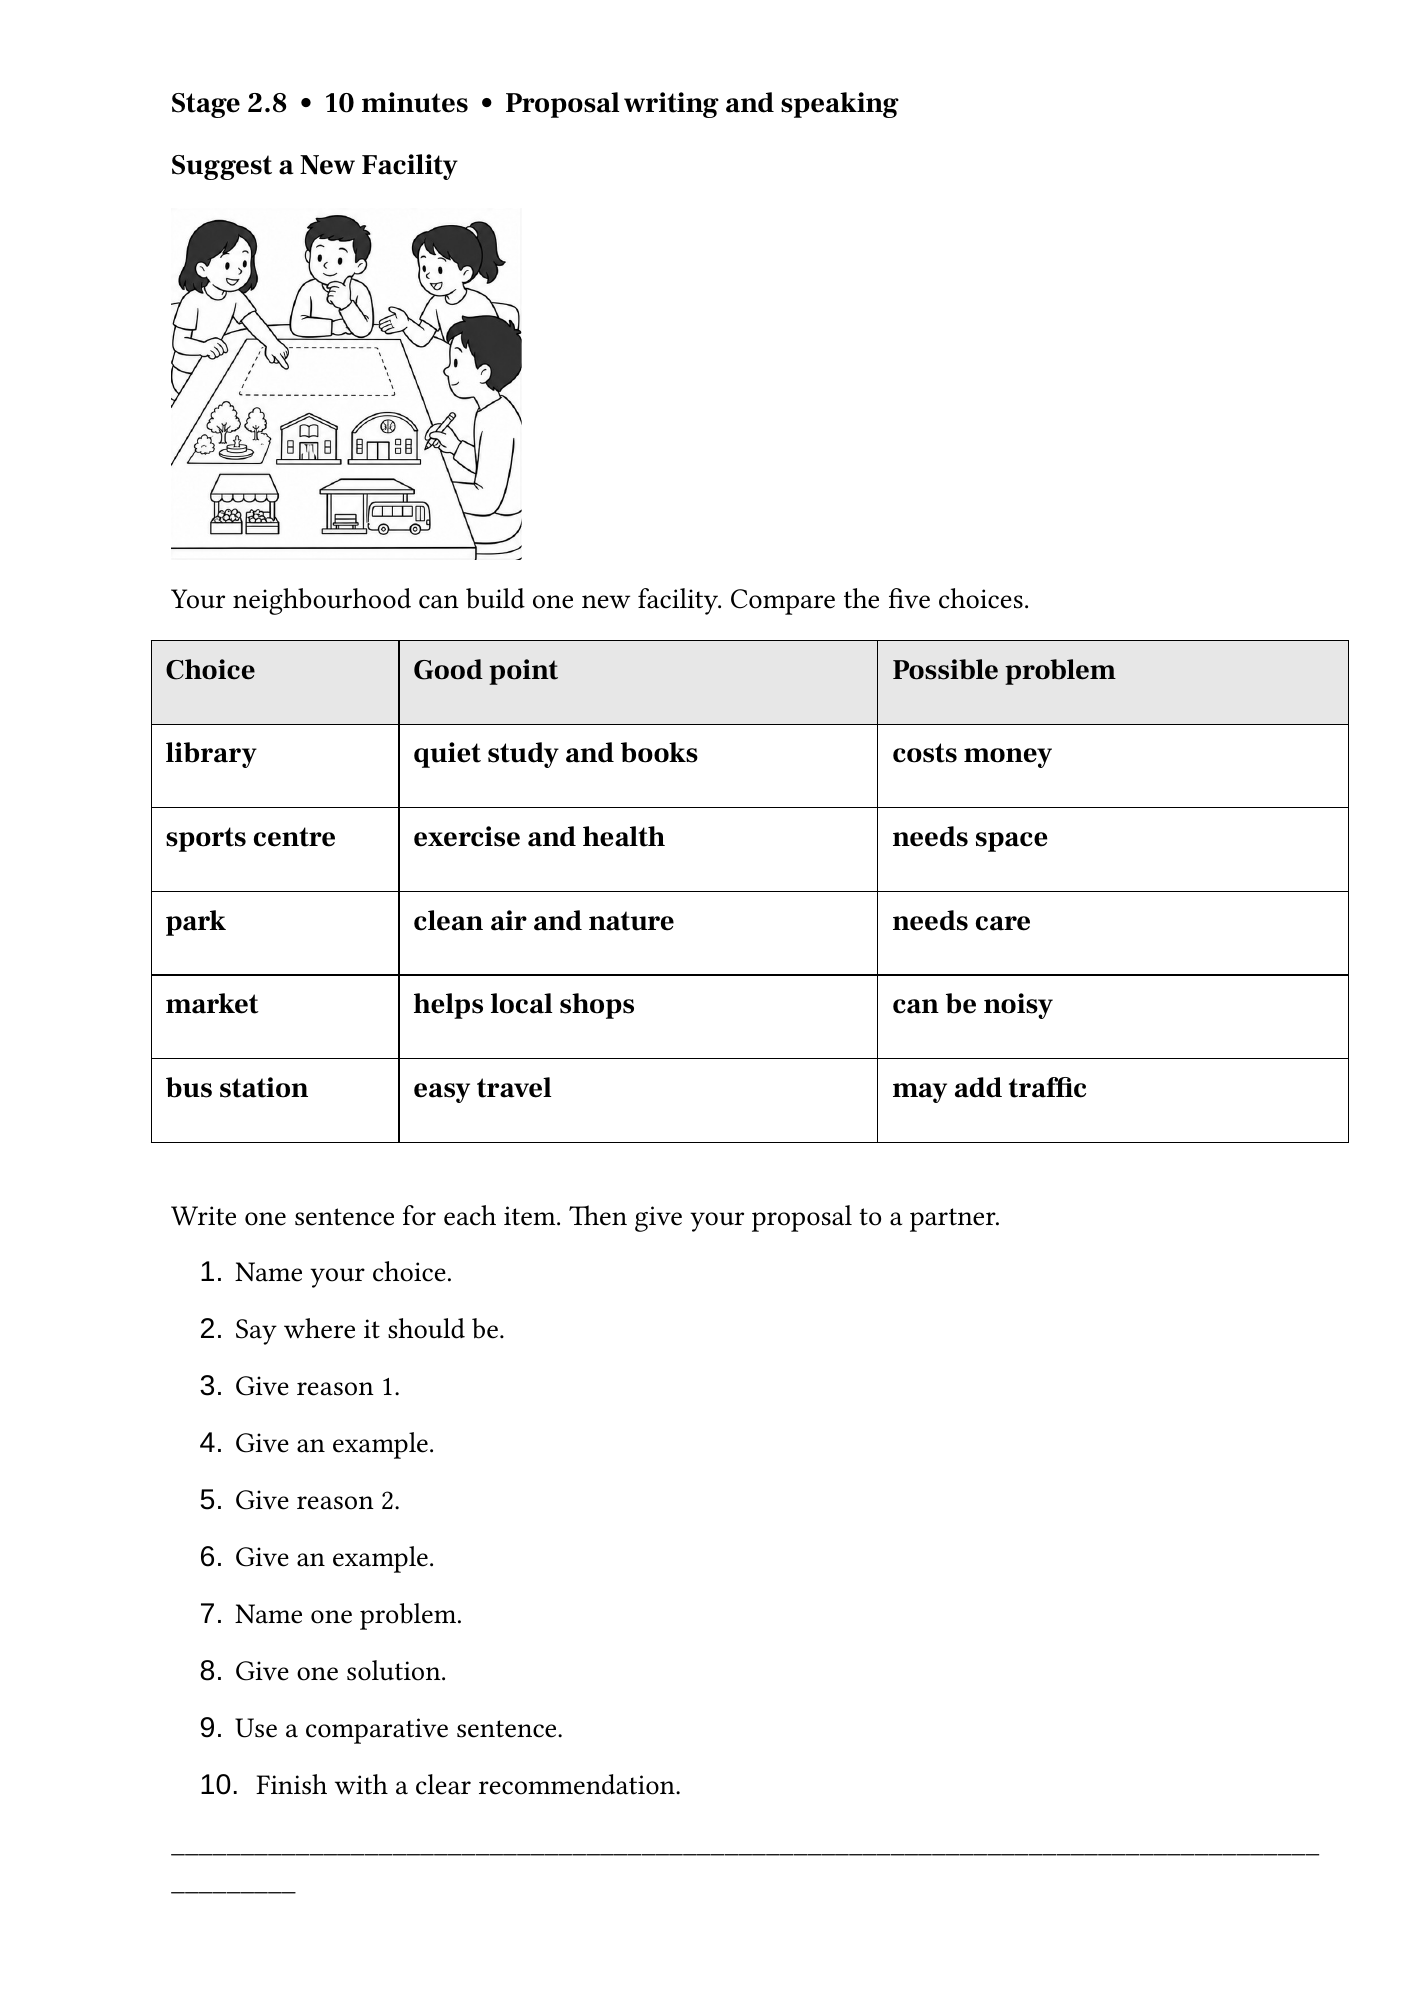
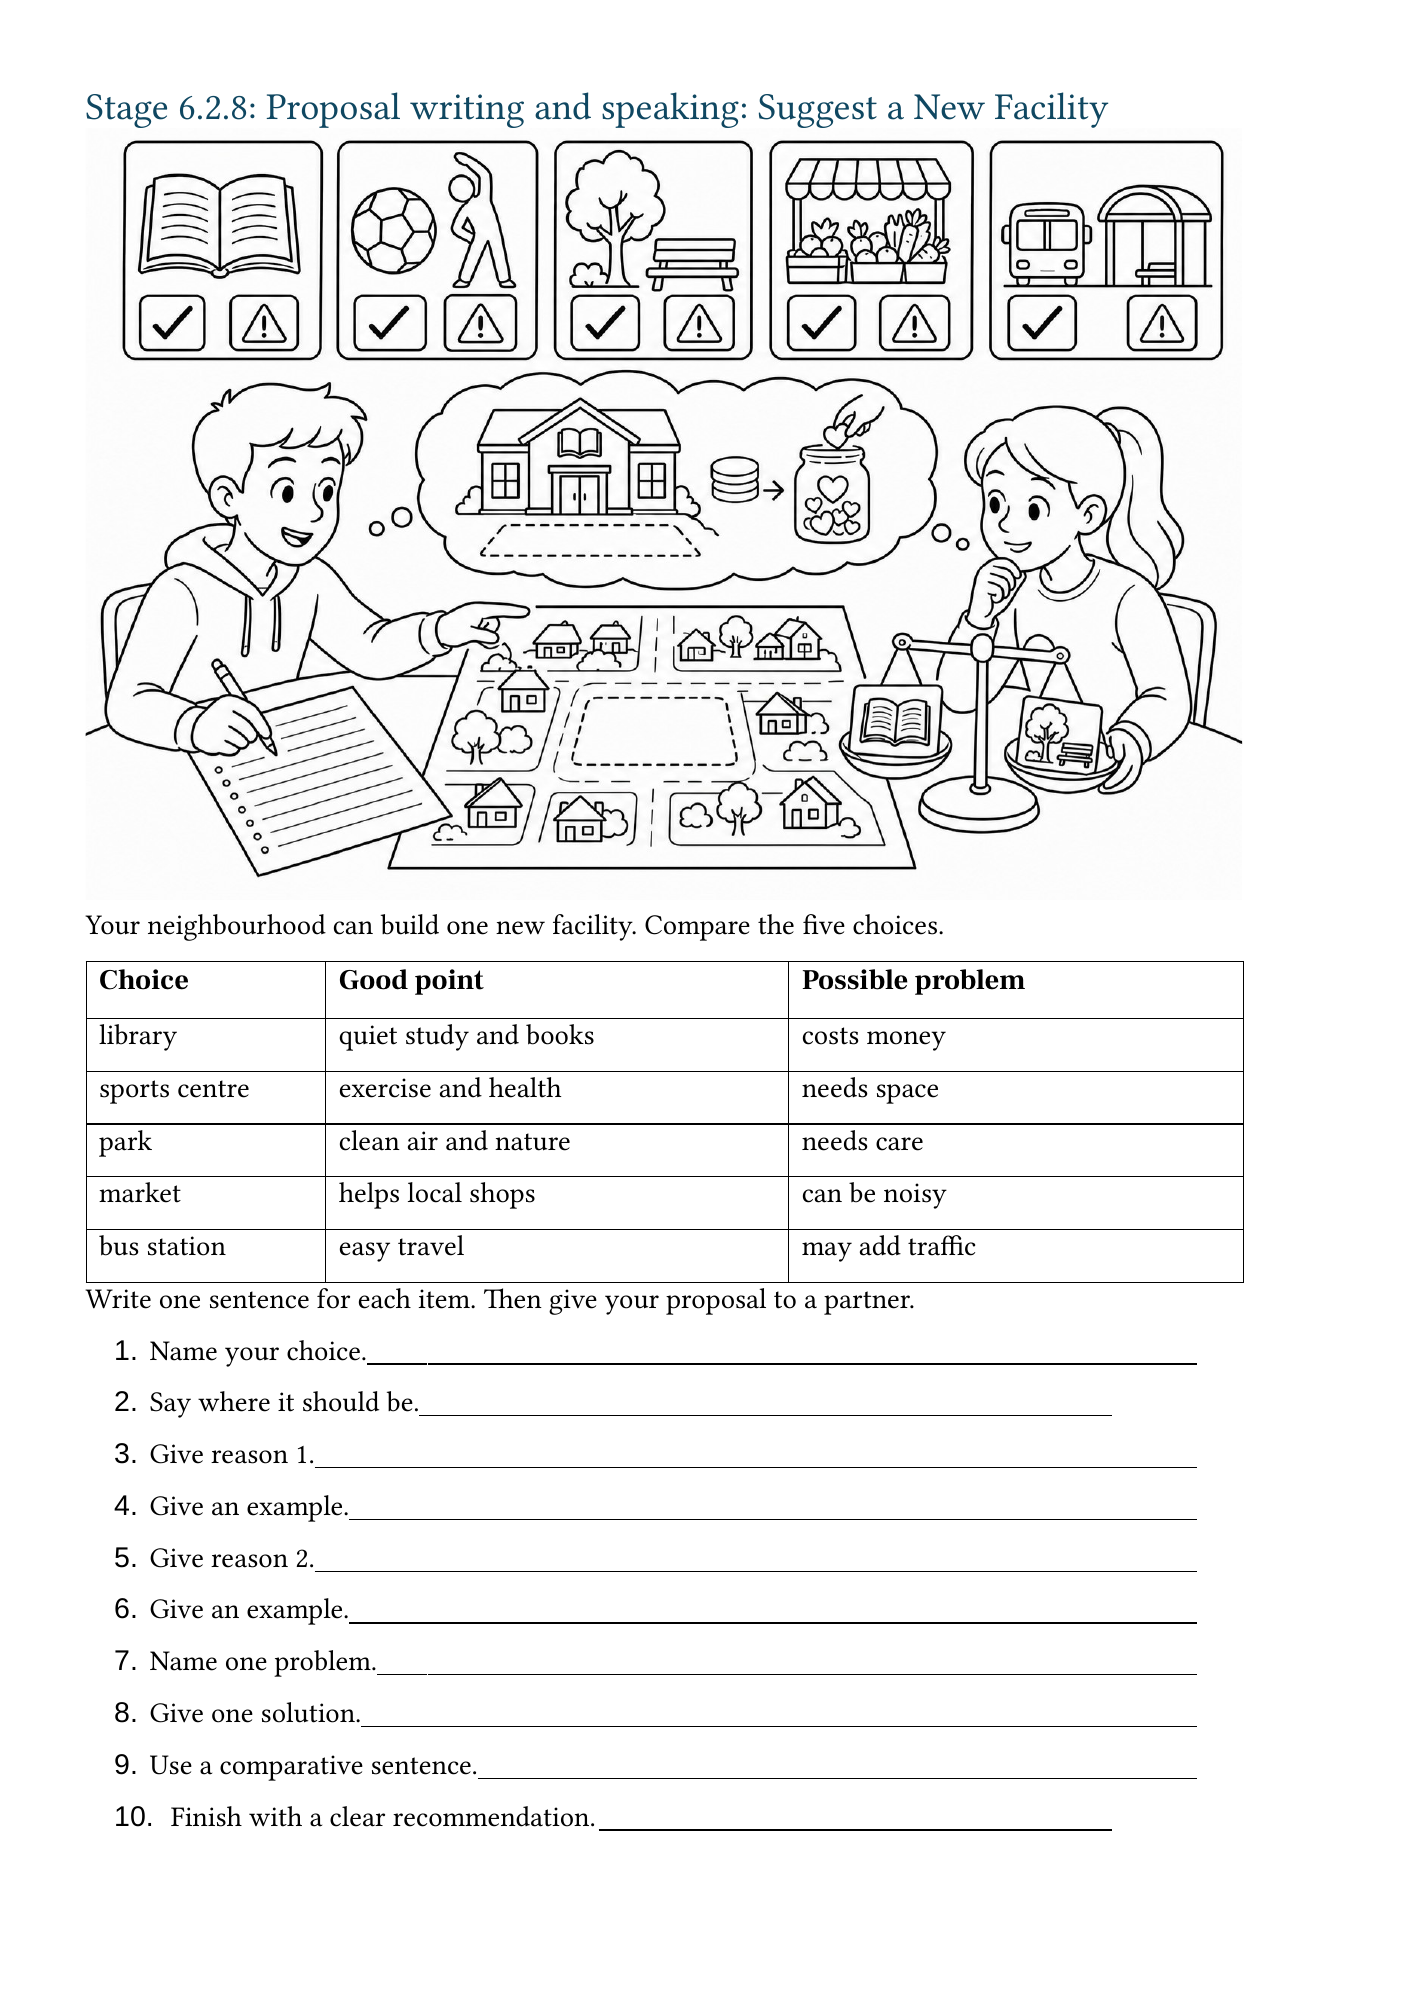
Use print-ready Unit 6 evidence (#4)

Changed region(s): [[0.0622, 0.031, 0.8713, 0.93]]

diff --git a/projects/eight-stage-framework/index.html b/projects/eight-stage-framework/index.html
@@ -1,4 +1,4 @@
 <!doctype html><html lang="en"><head><meta charset="utf-8"><meta name="viewport" content="width=device-width,initial-scale=1"><title>Eight-Stage Lesson Framework | Wayland Chin</title><link rel="stylesheet" href="/assets/css/styles.css"><script defer src="/assets/js/site.js"></script></head><body>
 <a class="skip-link" href="#main">Skip to main content</a><header class="site-header"><div class="container header-inner"><a class="wordmark" href="/">Wayland Chin<span>Education • Technology • Operations</span></a><button class="menu-button" type="button" aria-expanded="false" aria-controls="site-nav">Menu</button><nav id="site-nav" class="site-nav"><a href="/education/">Education</a><a href="/projects/">Projects</a><a href="/business/">Business</a><a href="/about/">About</a><a href="/documents/">CV & Documents</a><a href="/contact/">Contact</a></nav></div></header>
-<main id="main"><section class="page-hero"><div class="container"><p class="eyebrow">Project 01 • Curriculum</p><h1>Eight-Stage Lesson Framework</h1><p class="lead">A standardized architecture for classroom-ready 80-minute university English lessons.</p></div></section><section class="section"><div class="container content-grid"><article class="content"><h2>Challenge</h2><p>Early lesson materials varied in pacing, completeness, formatting, and teacher support. Some finished early, forcing instructors to improvise. Answer keys, instructions, audio, and visual guidance were inconsistent.</p><h2>Design response</h2><p>I concluded that an 80-minute lesson needed approximately eight stages of about ten minutes each. The framework creates a predictable rhythm among teacher input, student practice, interaction, independent work, and feedback.</p><h2>How it works</h2><ol><li>Define the outcome and CEFR-appropriate language target.</li><li>Sequence approximately eight stages across the available time.</li><li>Prepare activities, teacher guidance, answers, visuals, and audio.</li><li>Teach the lesson and observe pacing, clarity, and difficulty.</li><li>Revise the source lesson for the next class or semester.</li></ol><h2>A complete eight-stage example</h2><p>This example comes from an anonymized lesson on city facilities and change. The activity types vary by lesson, but the timing and progression remain consistent.</p><div class="stage-framework" aria-label="Eight stages in an example 80-minute lesson"><div><span>01</span><strong>Picture vocabulary</strong><small>10 minutes</small></div><div><span>02</span><strong>Directions vocabulary</strong><small>10 minutes</small></div><div><span>03</span><strong>Frequency practice</strong><small>10 minutes</small></div><div><span>04</span><strong>Reading</strong><small>10 minutes</small></div><div><span>05</span><strong>Grammar in context</strong><small>10 minutes</small></div><div><span>06</span><strong>Guided writing</strong><small>10 minutes</small></div><div><span>07</span><strong>Information-gap speaking</strong><small>10 minutes</small></div><div><span>08</span><strong>Proposal and production</strong><small>10 minutes</small></div></div><h2>Evidence from a classroom-ready unit</h2><p>The following pages are selected from <em>Unit 6: Places, Facilities, and Energy</em>. Together they show the progression from supported input to independent production and the parallel teacher support built into the unit.</p><div class="evidence-grid"><figure><a href="/assets/evidence/eight-stage-framework/01-picture-vocabulary.png"><img src="/assets/evidence/eight-stage-framework/01-picture-vocabulary.png" alt="Lesson page for Stage 1 picture vocabulary about city facilities" loading="lazy"></a><figcaption><strong>Stage 1: accessible entry point.</strong> A visual prompt, word bank, and ten short questions establish the topic without requiring extensive teacher setup.</figcaption></figure><figure><a href="/assets/evidence/eight-stage-framework/07-information-gap-speaking.png"><img src="/assets/evidence/eight-stage-framework/07-information-gap-speaking.png" alt="Lesson page for Stage 7 information-gap speaking and directions" loading="lazy"></a><figcaption><strong>Stage 7: structured interaction.</strong> Ten preparation notes help students complete an information-gap speaking task before changing roles.</figcaption></figure><figure><a href="/assets/evidence/eight-stage-framework/08-proposal-production.png"><img src="/assets/evidence/eight-stage-framework/08-proposal-production.png" alt="Lesson page for Stage 8 proposal writing and speaking" loading="lazy"></a><figcaption><strong>Stage 8: independent production.</strong> Students compare options, solve a problem, and deliver a recommendation using the lesson language.</figcaption></figure><figure><a href="/assets/evidence/eight-stage-framework/prepared-answer-key.png"><img src="/assets/evidence/eight-stage-framework/prepared-answer-key.png" alt="Prepared teacher answer key for the eight-stage lesson" loading="lazy"></a><figcaption><strong>Teacher-ready support.</strong> Prepared answers and acceptable response examples reduce pre-class preparation and improve consistency.</figcaption></figure></div><div class="evidence-note"><strong>What this evidence demonstrates</strong><p>One lesson includes a timed sequence, visual anchors, vocabulary, receptive work, controlled practice, guided interaction, independent production, and a prepared answer key. The complete unit contains three lessons and 24 stages.</p></div><h2>Reach and reflection</h2><p>The framework supports approximately 60 lessons per semester and 120 lessons per academic year. Its verified value is operational and pedagogical consistency; formal comparative learning-outcome data has not yet been collected.</p><h2>Lesson learned</h2><p>The best curriculum architecture is specific enough to create consistency but flexible enough to support different aims and activity types.</p></article><aside><div class="sidebar-card"><p class="eyebrow">Project summary</p><h2>Curriculum design</h2><div class="metric-list"><div><strong>80 minutes</strong><span>lesson duration</span></div><div><strong>8 stages</strong><span>approximately ten minutes each</span></div><div><strong>120 lessons</strong><span>maintained annually</span></div><div><strong>24 stages</strong><span>in the illustrated three-lesson unit</span></div></div></div></aside></div></section></main>
+<main id="main"><section class="page-hero"><div class="container"><p class="eyebrow">Project 01 • Curriculum</p><h1>Eight-Stage Lesson Framework</h1><p class="lead">A standardized architecture for classroom-ready 80-minute university English lessons.</p></div></section><section class="section"><div class="container content-grid"><article class="content"><h2>Challenge</h2><p>Early lesson materials varied in pacing, completeness, formatting, and teacher support. Some finished early, forcing instructors to improvise. Answer keys, instructions, audio, and visual guidance were inconsistent.</p><h2>Design response</h2><p>I concluded that an 80-minute lesson needed approximately eight stages of about ten minutes each. The framework creates a predictable rhythm among teacher input, student practice, interaction, independent work, and feedback.</p><h2>How it works</h2><ol><li>Define the outcome and CEFR-appropriate language target.</li><li>Sequence approximately eight stages across the available time.</li><li>Prepare activities, teacher guidance, answers, visuals, and audio.</li><li>Teach the lesson and observe pacing, clarity, and difficulty.</li><li>Revise the source lesson for the next class or semester.</li></ol><h2>A complete eight-stage example</h2><p>This example comes from an anonymized lesson on city facilities and change. The activity types vary by lesson, but the timing and progression remain consistent.</p><div class="stage-framework" aria-label="Eight stages in an example 80-minute lesson"><div><span>01</span><strong>Picture vocabulary</strong><small>10 minutes</small></div><div><span>02</span><strong>Directions vocabulary</strong><small>10 minutes</small></div><div><span>03</span><strong>Frequency practice</strong><small>10 minutes</small></div><div><span>04</span><strong>Reading</strong><small>10 minutes</small></div><div><span>05</span><strong>Grammar in context</strong><small>10 minutes</small></div><div><span>06</span><strong>Guided writing</strong><small>10 minutes</small></div><div><span>07</span><strong>Information-gap speaking</strong><small>10 minutes</small></div><div><span>08</span><strong>Proposal and production</strong><small>10 minutes</small></div></div><h2>Evidence from the print-ready team file</h2><p>These pages come from the completed 49-page <em>Unit 6: Places, Facilities, and Energy</em> file used by the teaching team and prepared for student printing. They show the final formatting, upgraded illustrations, classroom activities, and parallel teacher answers.</p><div class="evidence-grid"><figure><a href="/assets/evidence/eight-stage-framework/01-picture-vocabulary.png"><img src="/assets/evidence/eight-stage-framework/01-picture-vocabulary.png" alt="Print-ready lesson page for Stage 1 picture vocabulary about city facilities" loading="lazy"></a><figcaption><strong>Stage 1: accessible entry point.</strong> A detailed visual prompt, word bank, and ten short questions establish the topic without requiring extensive teacher setup.</figcaption></figure><figure><a href="/assets/evidence/eight-stage-framework/07-information-gap-speaking.png"><img src="/assets/evidence/eight-stage-framework/07-information-gap-speaking.png" alt="Print-ready lesson page for Stage 7 information-gap speaking and directions" loading="lazy"></a><figcaption><strong>Stage 7: structured interaction.</strong> Visual route support and ten preparation notes help students complete an information-gap speaking task before changing roles.</figcaption></figure><figure><a href="/assets/evidence/eight-stage-framework/08-proposal-production.png"><img src="/assets/evidence/eight-stage-framework/08-proposal-production.png" alt="Print-ready lesson page for Stage 8 proposal writing and speaking" loading="lazy"></a><figcaption><strong>Stage 8: independent production.</strong> Students compare illustrated options, solve a neighbourhood problem, and deliver a recommendation using the lesson language.</figcaption></figure><figure><a href="/assets/evidence/eight-stage-framework/prepared-answer-key.png"><img src="/assets/evidence/eight-stage-framework/prepared-answer-key.png" alt="Prepared teacher answer key from the print-ready unit" loading="lazy"></a><figcaption><strong>Teacher-ready support.</strong> Prepared answers and acceptable response examples reduce pre-class preparation and improve consistency.</figcaption></figure></div><div class="evidence-note"><strong>What this evidence demonstrates</strong><p>One lesson includes a timed sequence, visual anchors, vocabulary, receptive work, controlled practice, guided interaction, independent production, and a prepared answer key. The finished unit contains three lessons, 24 stages, and dedicated teacher-answer pages.</p></div><h2>Reach and reflection</h2><p>The framework supports approximately 60 lessons per semester and 120 lessons per academic year. Its verified value is operational and pedagogical consistency; formal comparative learning-outcome data has not yet been collected.</p><h2>Lesson learned</h2><p>The best curriculum architecture is specific enough to create consistency but flexible enough to support different aims and activity types.</p></article><aside><div class="sidebar-card"><p class="eyebrow">Project summary</p><h2>Curriculum design</h2><div class="metric-list"><div><strong>80 minutes</strong><span>lesson duration</span></div><div><strong>8 stages</strong><span>approximately ten minutes each</span></div><div><strong>120 lessons</strong><span>maintained annually</span></div><div><strong>49 pages</strong><span>in the illustrated print-ready unit</span></div></div></div></aside></div></section></main>
 <footer class="site-footer"><div class="container footer-grid"><div><strong>Wayland Chin</strong><p>Curriculum, educational technology, and operations.</p></div><div><a href="/projects/">All projects</a><a href="mailto:wayland@waylandchin.com">Contact</a></div></div><div class="container footer-bottom">© <span data-year>2026</span> Wayland Chin</div></footer></body></html>
